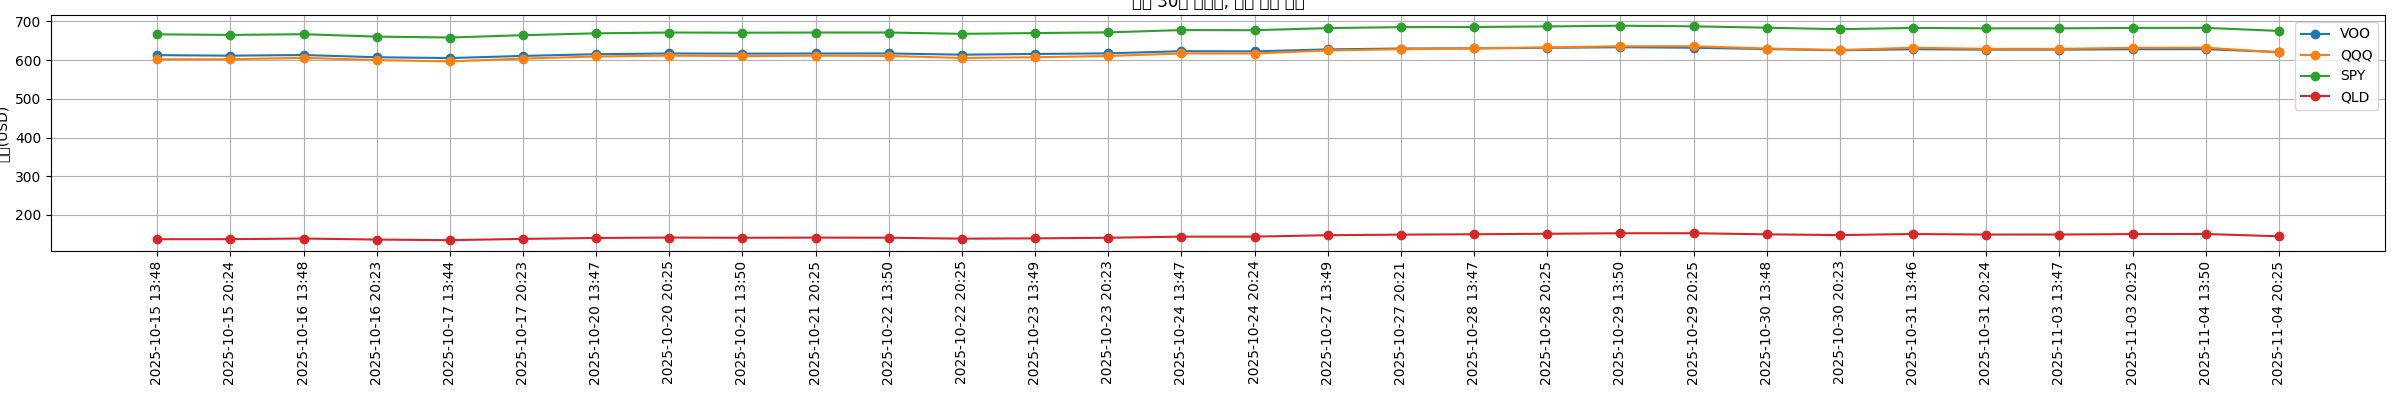
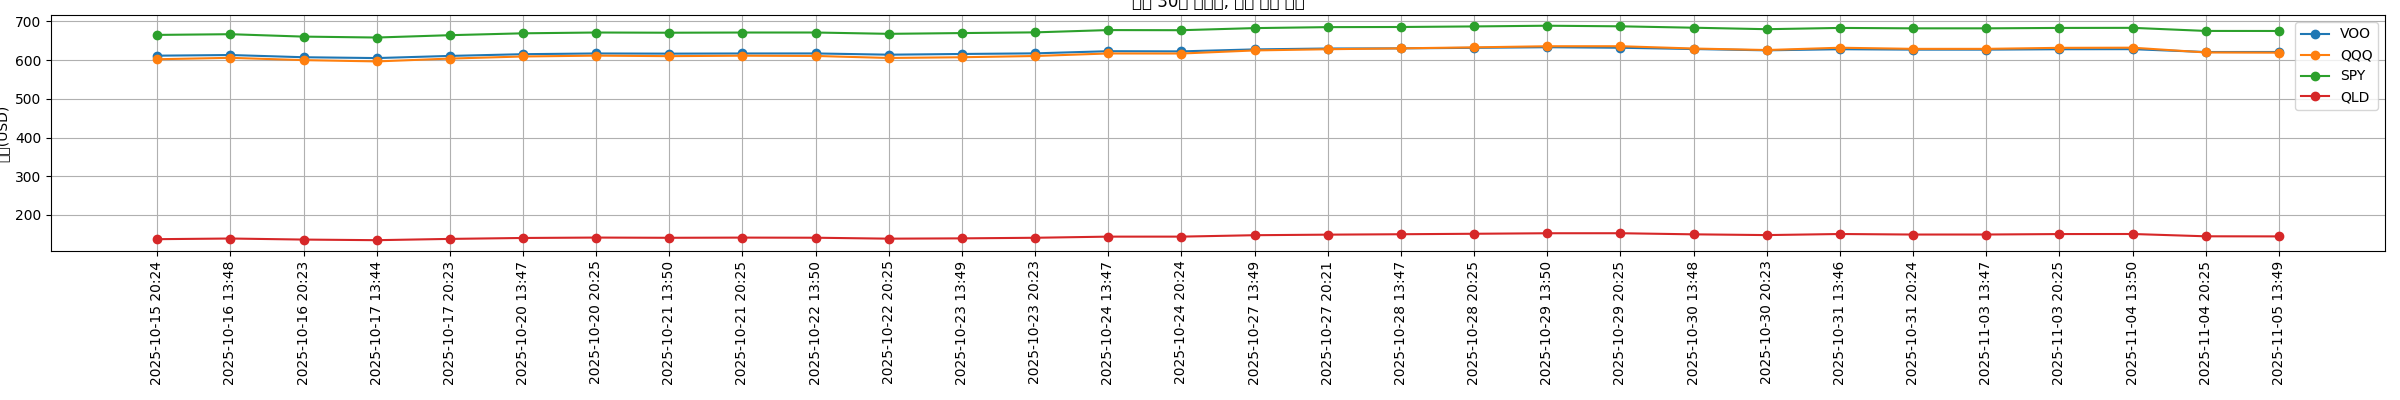
자동: 시장 시세/차트, README 갱신

diff --git a/README.md b/README.md
@@ -4,7 +4,6 @@
 
 | 시각(UTC) | VOO | QQQ | SPY | QLD |
 | --- | --- | --- | --- | --- |
-| 2025-10-15 13:48 | 612.86 | 601.99 | 666.55 | 137.39 |
 | 2025-10-15 20:24 | 611.45 | 602.22 | 665.10 | 137.44 |
 | 2025-10-16 13:48 | 613.15 | 605.88 | 666.91 | 139.15 |
 | 2025-10-16 20:23 | 607.40 | 599.99 | 660.69 | 136.42 |
@@ -34,5 +33,6 @@
 | 2025-11-03 20:25 | 628.08 | 631.68 | 683.11 | 150.66 |
 | 2025-11-04 13:50 | 628.27 | 632.08 | 683.34 | 150.82 |
 | 2025-11-04 20:25 | 620.91 | 619.77 | 675.35 | 144.88 |
+| 2025-11-05 13:49 | 620.99 | 619.25 | 675.24 | 144.64 |
 ## QLD CANDLESTICK CHART![QLD 캔들차트](./qld_candlestick.png)
 
